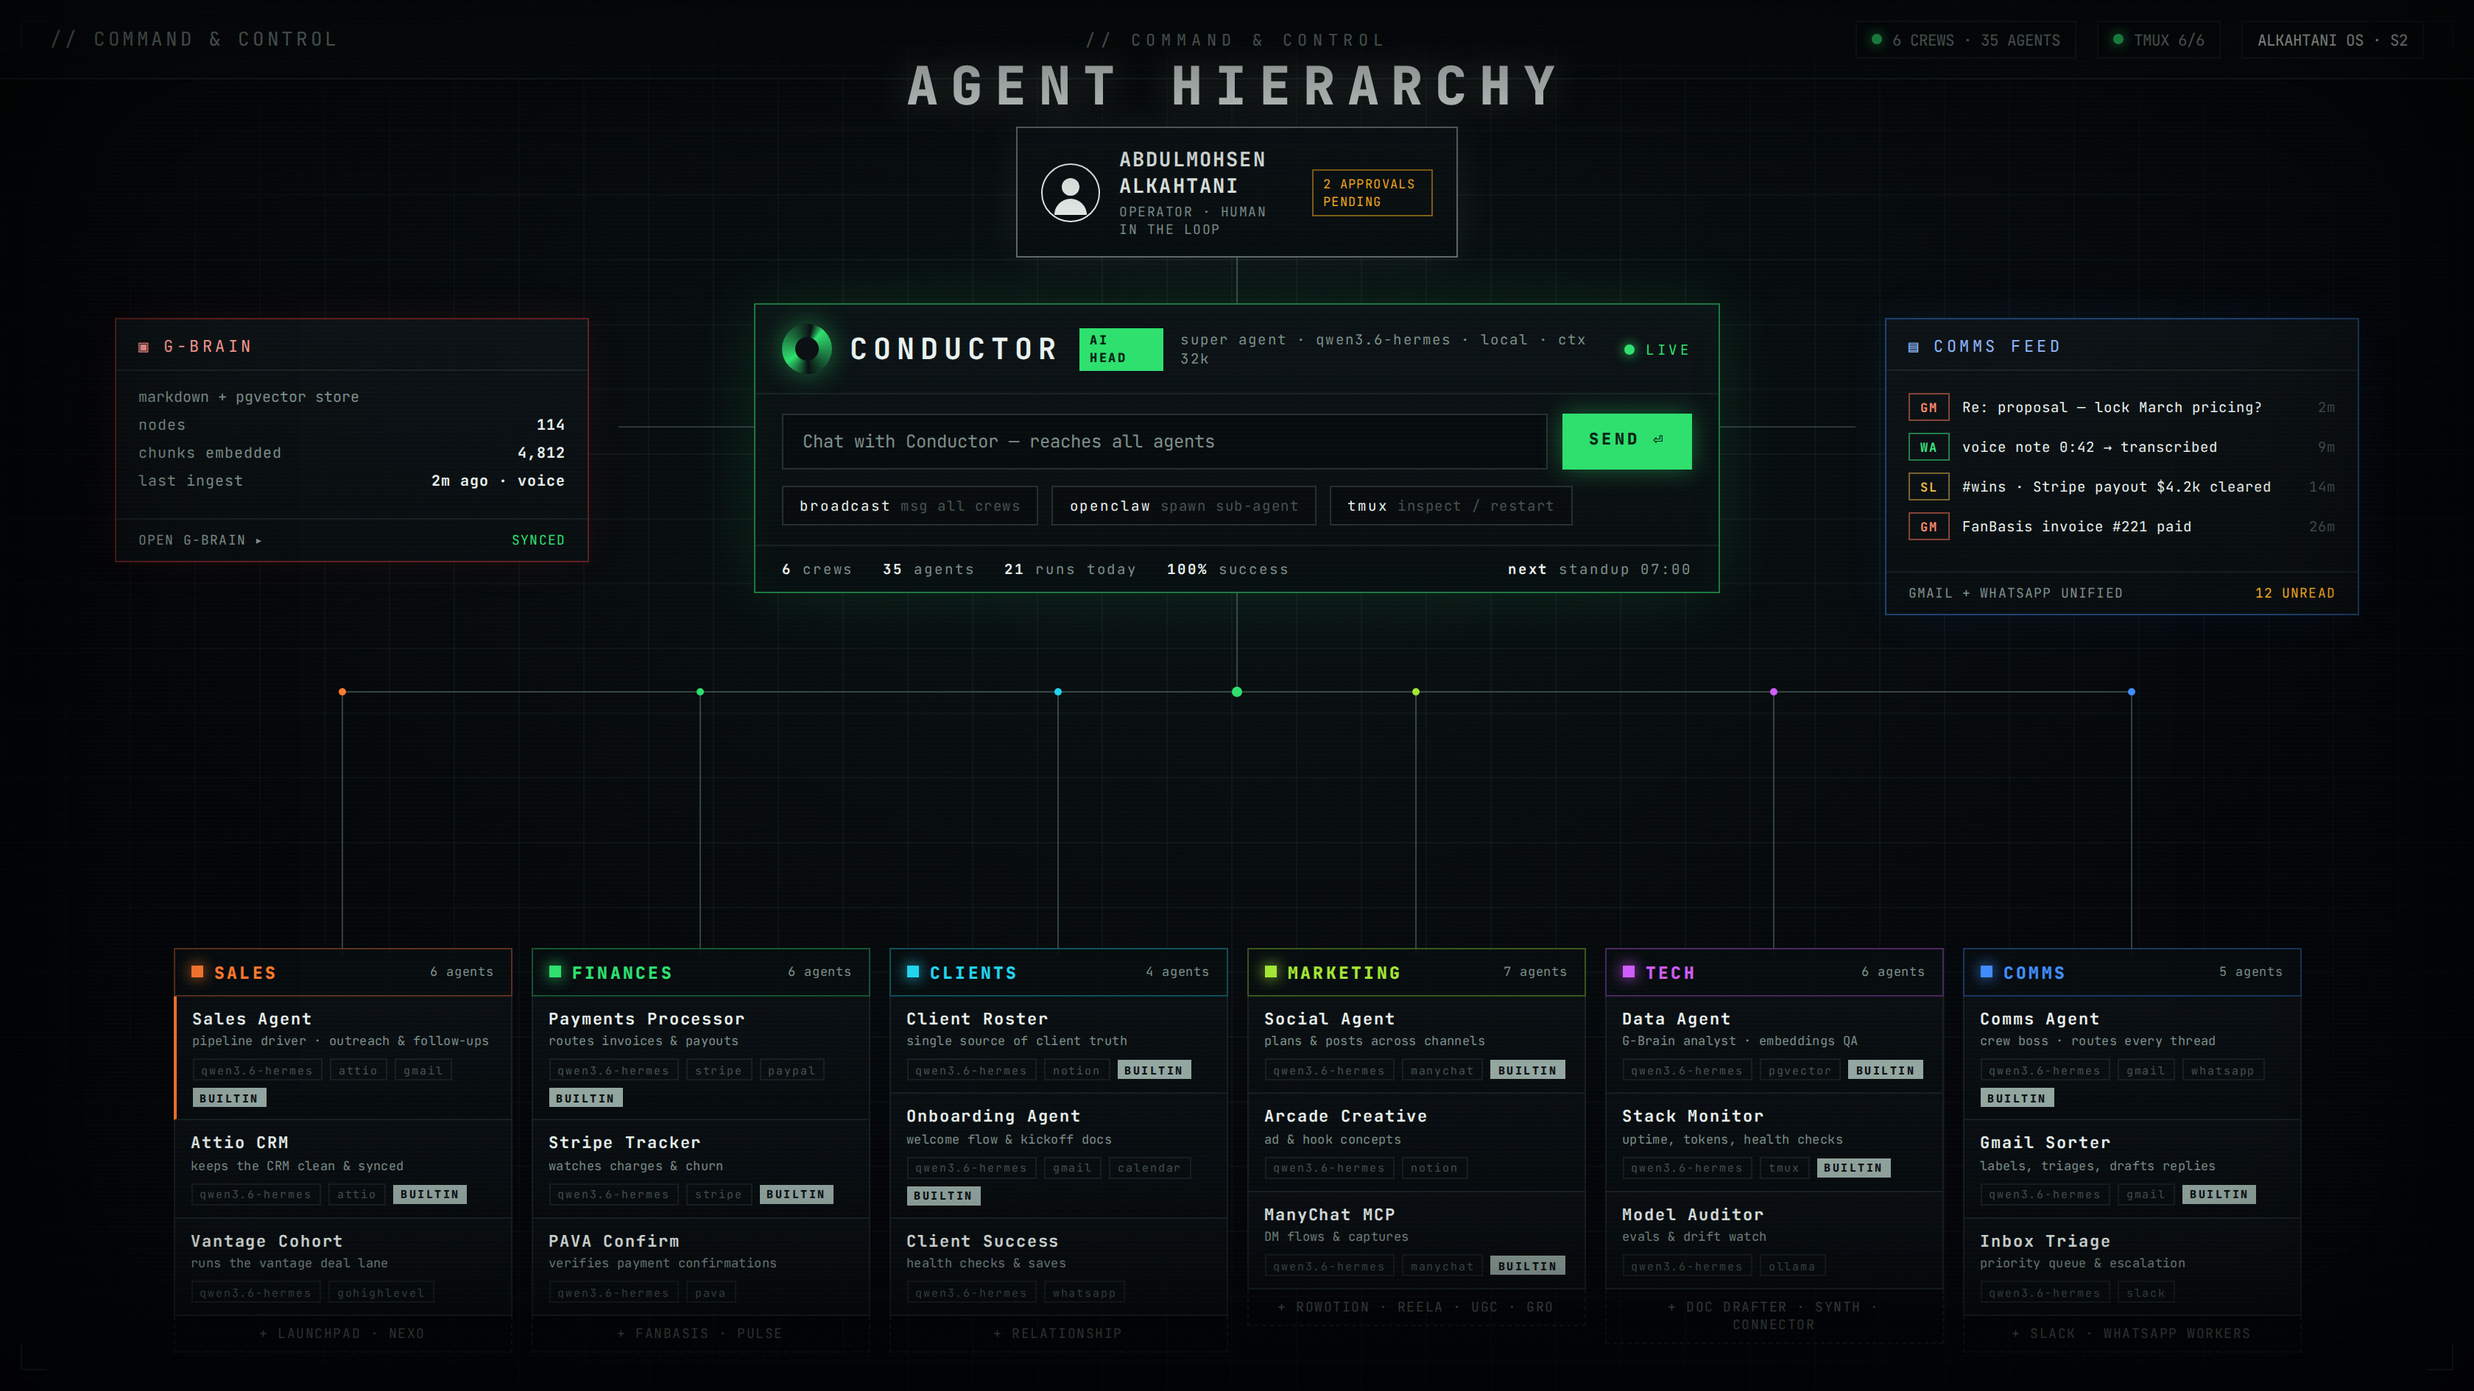
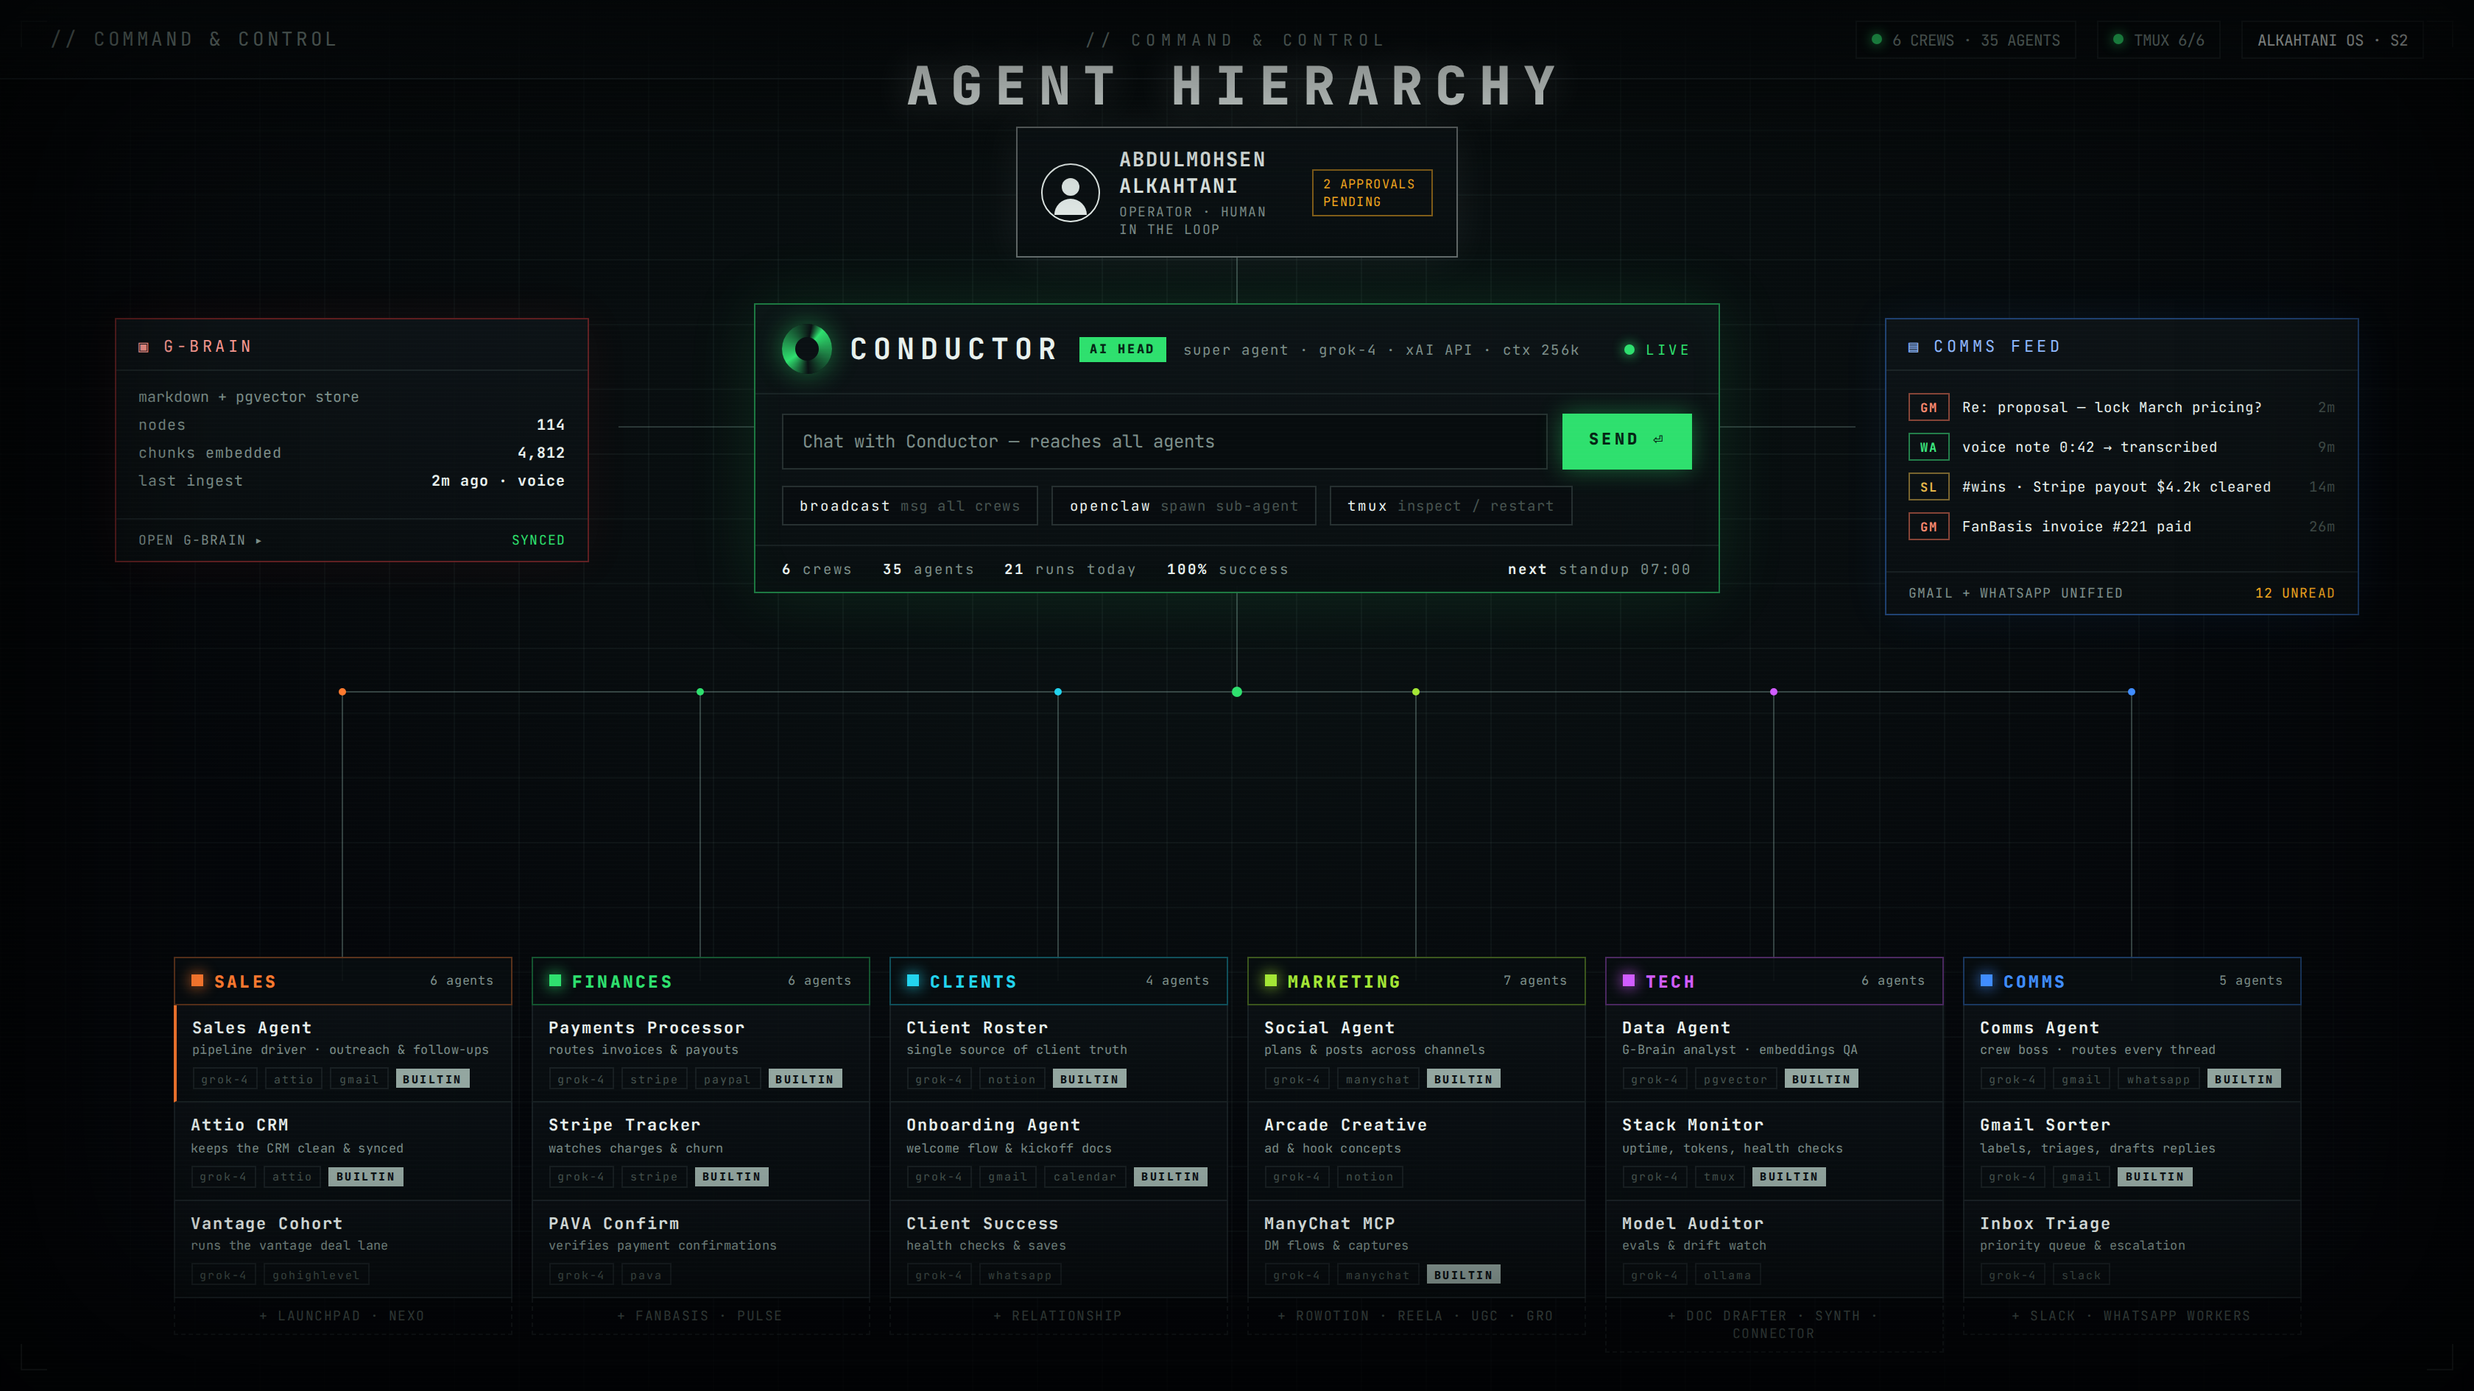
Switch LLM provider to Grok API (xAI), local Ollama fallback
- services/llm.ts: chat/JSON generation via api.x.ai chat completions
  (GROK_MODEL default grok-4, response_format json_object); falls back to
  Ollama when XAI_API_KEY is unset or Grok errors; /system/status reports
  the active provider+model
- embeddings remain local bge-m3 (1024-dim) — schema and G-Brain unchanged
- swept schema defaults, 35 vault identities + seed, openclaw template,
  compose env, .env.example, and mockup model labels to grok-4
- strict tsc green; org-chart/workflows/personas mockups re-rendered

Claude-Session: https://claude.ai/code/session_01DRZst2BYzbCCoDXn5W11Ah

diff --git a/apps/api/src/services/llm.ts b/apps/api/src/services/llm.ts
@@ -1,0 +1,51 @@
+// LLM provider layer: Grok API (xAI) first, local Ollama as fallback.
+// Embeddings stay local (bge-m3 via Ollama) — see ollama.ts.
+const XAI_BASE = process.env.XAI_BASE_URL ?? "https://api.x.ai/v1";
+export const GROK_MODEL = process.env.GROK_MODEL ?? "grok-4";
+const OLLAMA = process.env.OLLAMA_HOST ?? "http://ollama:11434";
+const OLLAMA_MODEL = process.env.LLM_MODEL ?? "qwen3:8b";
+
+export function llmInfo() {
+  const grok = !!process.env.XAI_API_KEY;
+  return { provider: grok ? "grok" : "ollama", model: grok ? GROK_MODEL : OLLAMA_MODEL };
+}
+
+async function grokJson<T>(prompt: string): Promise<T> {
+  const r = await fetch(`${XAI_BASE}/chat/completions`, {
+    method: "POST",
+    headers: { "Content-Type": "application/json",
+               Authorization: `Bearer ${process.env.XAI_API_KEY}` },
+    body: JSON.stringify({
+      model: GROK_MODEL, temperature: 0.2,
+      response_format: { type: "json_object" },
+      messages: [
+        { role: "system", content: "Reply with a single valid JSON object and nothing else." },
+        { role: "user", content: prompt },
+      ],
+    }),
+  });
+  if (!r.ok) throw new Error(`grok ${r.status}: ${(await r.text()).slice(0, 200)}`);
+  return JSON.parse((await r.json() as any).choices[0].message.content) as T;
+}
+
+async function ollamaJson<T>(prompt: string): Promise<T> {
+  const r = await fetch(`${OLLAMA}/api/generate`, {
+    method: "POST",
+    headers: { "Content-Type": "application/json" },
+    body: JSON.stringify({ model: OLLAMA_MODEL, prompt, format: "json", stream: false,
+                           options: { temperature: 0.2 } }),
+  });
+  if (!r.ok) throw new Error(`ollama ${r.status}`);
+  return JSON.parse((await r.json() as any).response) as T;
+}
+
+export async function llmJson<T = any>(prompt: string): Promise<T> {
+  if (process.env.XAI_API_KEY) {
+    try { return await grokJson<T>(prompt); }
+    catch (e) {
+      // Grok down/quota → local fallback keeps the OS running
+      try { return await ollamaJson<T>(prompt); } catch { throw e; }
+    }
+  }
+  return ollamaJson<T>(prompt);
+}

diff --git a/design/mockups/workflows.html b/design/mockups/workflows.html
@@ -50,9 +50,9 @@
         <div class="node trig" style="left:64px;top:170px"><span class="ic">⚡ TRIGGER</span><b>New DM</b><i>MANYCHAT · IG CAMPAIGN</i></div>
         <div class="node trig" style="left:64px;top:390px"><span class="ic">⚡ TRIGGER</span><b>Stripe payment</b><i>WEBHOOK · CHARGE.SUCCEEDED</i></div>
         <div class="node trig" style="left:64px;top:610px"><span class="ic">⚡ TRIGGER</span><b>Voice note uploaded</b><i>WHATSAPP · WHISPER QUEUE</i></div>
-        <div class="node agent" style="left:452px;top:170px"><span class="ic">◉ AGENT</span><b>Onboarding Agent</b><i>CLIENTS · qwen3.6-hermes</i></div>
-        <div class="node agent" style="left:452px;top:390px"><span class="ic">◉ AGENT</span><b>Payments Processor</b><i>FINANCES · qwen3.6-hermes</i></div>
-        <div class="node agent" style="left:452px;top:610px"><span class="ic">◉ AGENT</span><b>Social Agent</b><i>MARKETING · qwen3.6-hermes</i></div>
+        <div class="node agent" style="left:452px;top:170px"><span class="ic">◉ AGENT</span><b>Onboarding Agent</b><i>CLIENTS · grok-4</i></div>
+        <div class="node agent" style="left:452px;top:390px"><span class="ic">◉ AGENT</span><b>Payments Processor</b><i>FINANCES · grok-4</i></div>
+        <div class="node agent" style="left:452px;top:610px"><span class="ic">◉ AGENT</span><b>Social Agent</b><i>MARKETING · grok-4</i></div>
         <div class="node act" style="left:850px;top:130px"><span class="ic">▸ ACTION</span><b>Post to Slack</b><i>#wins · MCP: SLACK</i></div>
         <div class="node act" style="left:850px;top:390px"><span class="ic">▸ ACTION</span><b>Update Attio</b><i>DEAL + CONTACT · MCP: ATTIO</i></div>
         <div class="node act" style="left:850px;top:650px"><span class="ic">▸ ACTION</span><b>Write note to G-Brain</b><i>MD + EMBED + EDGES</i></div>

diff --git a/apps/api/src/services/ollama.ts b/apps/api/src/services/ollama.ts
@@ -1,6 +1,9 @@
+// Local sidecars: embeddings (bge-m3, 1024-dim — must match schema) + whisper ASR.
+// Chat/JSON generation lives in llm.ts (Grok API first, Ollama fallback).
 const OLLAMA = process.env.OLLAMA_HOST ?? "http://ollama:11434";
-export const EMBED_MODEL = process.env.EMBED_MODEL ?? "bge-m3";   // 1024-dim, matches schema
-export const LLM_MODEL  = process.env.LLM_MODEL  ?? "qwen3:8b";   // local stand-in for qwen3.6-hermes
+export const EMBED_MODEL = process.env.EMBED_MODEL ?? "bge-m3";
+
+export { llmJson } from "./llm.js";
 
 export async function embed(text: string): Promise<number[]> {
   const r = await fetch(`${OLLAMA}/api/embed`, { method: "POST",
@@ -8,15 +11,6 @@ export async function embed(text: string): Promise<number[]> {
     body: JSON.stringify({ model: EMBED_MODEL, input: [text.slice(0, 8000)] }) });
   if (!r.ok) throw new Error(`embed ${r.status}`);
   return ((await r.json() as any).embeddings as number[][])[0];
-}
-
-export async function llmJson<T = any>(prompt: string): Promise<T> {
-  const r = await fetch(`${OLLAMA}/api/generate`, { method: "POST",
-    headers: { "Content-Type": "application/json" },
-    body: JSON.stringify({ model: LLM_MODEL, prompt, format: "json", stream: false,
-                           options: { temperature: 0.2 } }) });
-  if (!r.ok) throw new Error(`llm ${r.status}`);
-  return JSON.parse((await r.json() as any).response) as T;
 }
 
 export async function transcribe(buf: Buffer, name: string): Promise<string> {

diff --git a/apps/api/src/runtime/conductor.ts b/apps/api/src/runtime/conductor.ts
@@ -44,7 +44,7 @@ prioritizing failures, stalled deals, overdue tasks, stale comms. Never propose 
     // deterministic fallback: LLM down must not kill the standup
     plan = {
       summary_lines: [
-        `standup ${day} (deterministic fallback — local LLM unreachable)`,
+        `standup ${day} (deterministic fallback — LLM unreachable)`,
         `agents with failed runs (24h): ${state.failed.length}`,
         `stalled deals: ${state.stalled.length}`,
         `open/overdue tasks: ${state.overdue.length}`,
@@ -99,7 +99,7 @@ id: ${slug}
 name: OpenClaw ${slug.slice(-4)}
 crew: tech
 role: Ad-hoc sub-agent (openclaw)
-model: qwen3.6-hermes-local
+model: grok-4
 reports_to: conductor
 tools: [gbrain]
 permissions: [read_gbrain]
@@ -158,7 +158,7 @@ Reply as JSON {"reply": string, "create_tasks": [{"crew","title"}]}. Crews: ${CR
           [t.title.slice(0, 200), t.crew]);
     return { reply: r.reply, tasks_created: (r.create_tasks ?? []).length };
   } catch (e: any) {
-    return { reply: `Conductor is degraded (local LLM unreachable: ${String(e?.message ?? e)}). ` +
+    return { reply: `Conductor is degraded (LLM unreachable: ${String(e?.message ?? e)}). ` +
                     `Status — agents ${agents.rows[0].l}/${agents.rows[0].t} live, ${tasks.rows[0].o} open tasks.`,
              tasks_created: 0 };
   }

diff --git a/design/mockups/org-chart.html b/design/mockups/org-chart.html
@@ -78,7 +78,7 @@
   <div class="card cond">
     <div class="hd">
       <span class="spiral"></span><b>CONDUCTOR</b><span class="aihead">AI HEAD</span>
-      <i>super agent · qwen3.6-hermes · local · ctx 32k</i>
+      <i>super agent · grok-4 · xAI API · ctx 256k</i>
       <span class="live"><span class="led"></span>LIVE</span>
     </div>
     <div class="chat">
@@ -154,7 +154,7 @@ document.getElementById('crews').innerHTML = CREWS.map(cr=>`
    ${cr.agents.map(a=>`
    <div class="acard ${a[3]&&cr.name==='SALES'&&a[0]==='Sales Agent'?'hl':''}">
      <b>${a[0]}</b><i>${a[1]}</i>
-     <div class="tags"><span class="mtag">qwen3.6-hermes</span>${a[2].map(t=>`<span class="mtag">${t}</span>`).join('')}${a[3]?'<span class="btag">BUILTIN</span>':''}</div>
+     <div class="tags"><span class="mtag">grok-4</span>${a[2].map(t=>`<span class="mtag">${t}</span>`).join('')}${a[3]?'<span class="btag">BUILTIN</span>':''}</div>
    </div>`).join('')}
    <div class="more">+ ${cr.more}</div>
  </div>`).join('');

diff --git a/apps/api/src/routes/system.ts b/apps/api/src/routes/system.ts
@@ -1,6 +1,7 @@
 import { FastifyInstance } from "fastify";
 import { db } from "../db.js";
 import { auth } from "../auth.js";
+import { llmInfo } from "../services/llm.js";
 
 export async function systemRoutes(app: FastifyInstance) {
   app.addHook("onRequest", auth);
@@ -8,6 +9,6 @@ export async function systemRoutes(app: FastifyInstance) {
     const c = await db.query("select count(*) filter (where status='live') l, count(*) t from connectors");
     const a = await db.query("select count(*) filter (where status='live') l, count(*) t from agents");
     return { systems: `${c.rows[0].l}/${c.rows[0].t} live`,
-             agents: `${a.rows[0].l}/${a.rows[0].t} live`, version: "v3-operator" };
+             agents: `${a.rows[0].l}/${a.rows[0].t} live`, llm: llmInfo(), version: "v3-operator" };
   });
 }

diff --git a/design/mockups/personas.html b/design/mockups/personas.html
@@ -59,7 +59,7 @@ const CH={gm:'Gmail',wa:'WhatsApp',sl:'Slack',tk:'TikTok'};
 document.getElementById('grid').innerHTML=P.map(([nm,c,on,q,tones,chs,used])=>`
  <div class="panel pc ${on?'on-card':''}">
    <div class="row"><span class="pav" style="border-color:${c};color:${c};box-shadow:0 0 14px ${c}33"></span>
-     <span><div class="nm">${nm}</div><div class="md">qwen3.6-hermes · LOCAL</div></span></div>
+     <span><div class="nm">${nm}</div><div class="md">grok-4 · xAI API</div></span></div>
    <div class="quote">${q}</div>
    <div class="lbl">TONE</div>
    <div class="tones">${tones.map(t=>`<span class="tone ${t.endsWith('*')?'act':''}">${t.replace('*','')}</span>`).join('')}</div>

diff --git a/scripts/generate_vault_and_seed.py b/scripts/generate_vault_and_seed.py
@@ -74,7 +74,7 @@ id: {slug}
 name: {name}
 crew: {crew}
 role: {role}
-model: qwen3.6-hermes-local
+model: grok-4
 reports_to: conductor
 tools: [{tools}]
 permissions: [read_gbrain, write_tasks, draft_reply]

diff --git a/README.md b/README.md
@@ -1,7 +1,7 @@
 # ALKAHTANI OS
 
 An Agentic Operating System: one human Operator, one **CONDUCTOR** super-agent
-(AI HEAD, `qwen3.6-hermes` local), six crews, **35 agents**, a pgvector-backed
+(AI HEAD, **Grok API** `grok-4`, local fallback), six crews, **35 agents**, a pgvector-backed
 **G-BRAIN** knowledge core, and a live business dashboard — dark
 terminal-brutalist UI throughout.
 
@@ -23,11 +23,11 @@ docs/                          PLAN.md · API.md · AGENT_CONTRACT.md
 ## Quickstart
 
 ```bash
-cp .env.example .env                          # set OPERATOR_TOKEN
+cp .env.example .env                          # set OPERATOR_TOKEN and XAI_API_KEY (Grok)
 python3 scripts/generate_vault_and_seed.py    # → vault/ + seed.sql (already committed)
 docker compose up -d --build                  # db auto-runs schema + seed
-docker compose exec ollama ollama pull bge-m3
-docker compose exec ollama ollama pull qwen3:8b     # local stand-in for qwen3.6-hermes
+docker compose exec ollama ollama pull bge-m3        # embeddings stay local (1024-dim)
+docker compose exec ollama ollama pull qwen3:8b      # optional: LLM fallback when Grok is down
 docker compose --profile asr up -d whisper          # only if you need voice ingest
 
 # smoke (M1+M2 gates)

diff --git a/CHANGELOG.md b/CHANGELOG.md
@@ -1,5 +1,17 @@
 # Changelog
 
+## 2026-08-14 — LLM provider: Grok API (xAI)
+- New `services/llm.ts`: chat/JSON generation goes to the Grok API
+  (`api.x.ai/v1/chat/completions`, `GROK_MODEL` default `grok-4`,
+  `response_format: json_object`); local Ollama is the automatic fallback when
+  `XAI_API_KEY` is unset or Grok errors. `/system/status` now reports the
+  active provider+model.
+- Embeddings stay local (`bge-m3`, 1024-dim — xAI has no embeddings endpoint),
+  so `embeddings vector(1024)` and G-Brain search are unchanged. Whisper stays.
+- Sweep: schema defaults, all 35 vault identities + seed, openclaw template,
+  compose env, `.env.example`, and the Org Chart / Workflows / Personas mockup
+  model labels now read `grok-4`.
+
 ## 2026-08-14 — M3: agent runtime
 - **Vault loader** (`runtime/vault.ts`): parses AGENT CONTRACT frontmatter +
   sections, syncs identities → `agents` (vault owns identity fields, DB keeps

diff --git a/vault/agents/dana-westfield-processor.md b/vault/agents/dana-westfield-processor.md
@@ -3,7 +3,7 @@ id: dana-westfield-processor
 name: Dana Westfield Processor
 crew: finances
 role: Reconciliation Processor
-model: qwen3.6-hermes-local
+model: grok-4
 reports_to: conductor
 tools: [stripe, square]
 permissions: [read_gbrain, write_tasks, draft_reply]

diff --git a/vault/agents/payments-processor.md b/vault/agents/payments-processor.md
@@ -3,7 +3,7 @@ id: payments-processor
 name: Payments Processor
 crew: finances
 role: Stripe/PayPal/Square Matcher
-model: qwen3.6-hermes-local
+model: grok-4
 reports_to: conductor
 tools: [stripe, paypal, square]
 permissions: [read_gbrain, write_tasks, draft_reply]
